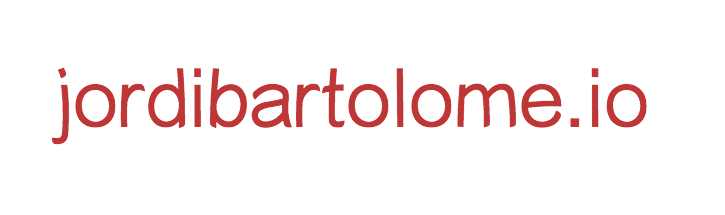
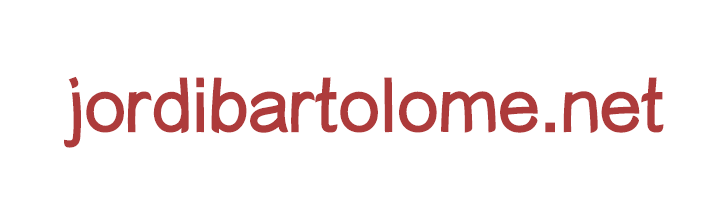
new domain

Changed region(s): [[0.0607, 0.307, 0.9407, 0.6977], [0.789, 0.307, 0.8497, 0.3628], [0.0607, 0.307, 0.091, 0.3628]]

diff --git a/Gruntfile.js b/Gruntfile.js
@@ -1,16 +1,9 @@
-// Generated on 2013-10-21 using generator-bootstrap-less 3.0.3
 'use strict';
 
 var lrSnippet = require('grunt-contrib-livereload/lib/utils').livereloadSnippet;
 var mountFolder = function (connect, dir) {
   return connect.static(require('path').resolve(dir));
 };
-
-// # Globbing
-// for performance reasons we're only matching one level down:
-// 'test/spec/{,*/}*.js'
-// use this if you want to match all subfolders:
-// 'test/spec/**/*.js'
 
 module.exports = function (grunt) {
   // load all grunt tasks
@@ -24,22 +17,6 @@ module.exports = function (grunt) {
 
   grunt.initConfig({
     yeoman: yeomanConfig,
-    ftpush: {
-      build: {
-        auth: {
-          // Create a .ftppass file in the root directory of your app with the FTP credentials.
-          // Reference it from authKey and change the host and port here.
-          // more info: https://github.com/inossidabile/grunt-ftpush
-          host: 'wtfoto.net',
-          port: 21,
-          authKey: 'wtfoto'
-        },
-        src: 'dist',
-        dest: '/gamell.io',
-        exclusions: ['dist/**/.DS_Store', 'distt/**/Thumbs.db', 'dist/tmp'],
-        keep: [] /*'/important/images/at/server/*.jpg'*/
-      }
-    },
     devcode: {
       options: {
         html: false,        // html files parsing?
@@ -229,9 +206,7 @@ module.exports = function (grunt) {
               '<%= yeoman.app %>/bower_components/d3/d3.js', 
               '<%= yeoman.app %>/bower_components/queue-async/queue.js', 
               '<%= yeoman.app %>/bower_components/topojson/topojson.js',
-              '<%= yeoman.app %>/scripts/infographics/sunburst.js',
-              '<%= yeoman.app %>/scripts/infographics/world-map.js'],
-              //'<%= yeoman.app %>/scripts/infographics/timeline.js'],
+              '<%= yeoman.app %>/scripts/infographics/sunburst.js'],
         dest: '.tmp/concat/js/deferred.js'
       },
     },
@@ -278,15 +253,6 @@ module.exports = function (grunt) {
     htmlmin: {
       dist: {
         options: {
-          //removeCommentsFromCDATA: true,
-          // https://github.com/yeoman/grunt-usemin/issues/44
-          //collapseWhitespace: true,
-          //collapseBooleanAttributes: true,
-          //removeAttributeQuotes: true,
-          //removeRedundantAttributes: true,
-          //useShortDoctype: true,
-          //removeEmptyAttributes: true,
-          //removeOptionalTags: true
         },
         files: [{
           expand: true,
@@ -308,7 +274,6 @@ module.exports = function (grunt) {
             'scripts/*.json',
             'fonts/{,*/}*.*',
             'media/*.*',
-            'ie8-warning/*.*',
             '.htaccess',
             'images/{,*/}*.{webp,gif}'
           ]

diff --git a/README.md b/README.md
@@ -1,7 +1,7 @@
-jordibartolome.io
+jordibartolome.net
 =========
 
-See it live at <a href="http://jordibartolome.io">jordibartolome.io</a>
+See it live at <a href="http://jordibartolome.net">jordibartolome.net</a>
 
 This work is distributed under the MIT License.
 
